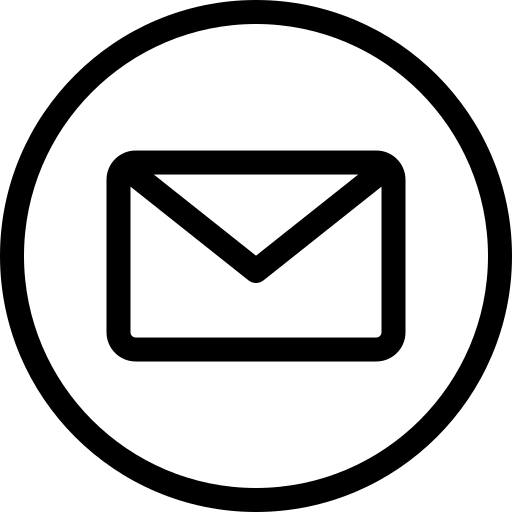
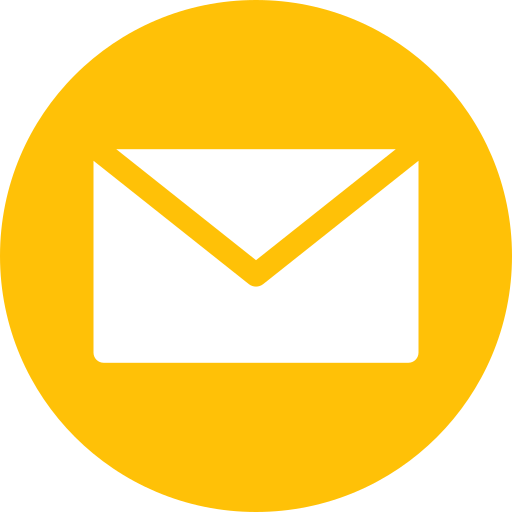
Added transition and tranform css property to self image and conatct

diff --git a/iportfolio.css b/iportfolio.css
@@ -2,6 +2,8 @@
   --bgcolor: #181828;
   --color: #7054c3;
   --fontstyle: "Poppins", serif;
+  --whitecolor: white;
+
 }
 
 * {
@@ -20,6 +22,8 @@
   border-bottom-right-radius: 80px;
   margin-top: 10vh;
   width: 33vw;
+  box-shadow: 3px 3px 3px var(--color), /* Bottom-right shadow */
+  -3px -3px 5px var(--color); /* Top-left highlight */
 }
 
 .me h1 {
@@ -34,6 +38,7 @@
   font-weight: bolder;
   font-style: italic;
   margin-left: 7vw;
+
 }
 
 .portfolio #self {
@@ -43,13 +48,24 @@
   height: 52vh;
   float: right;
   border-radius: 350px;
-  border: 5px solid var(--color);
+transition: 0.3s ease; 
 }
+
+#self:hover {
+  transition: 0.3s ease;
+  box-shadow: 
+  0 0 15px var(--whitecolor), /* Stronger outer glow */
+  0 0 30px var(--whitecolor), /* Stronger outer glow */
+  inset 0 0 15px rgba(255, 255, 255, 0.7), /* Stronger inner glow */
+  inset 0 0 30px rgba(255, 255, 255, 0.5); /* Stronger inner glow */
+  transform: translateY(-10px)
+}
+
 
 .about p {
   color: white;
   font-family: var(--fontstyle);
-  font-weight: 200;
+  font-weight: 300;
   font-style: normal;
   width: 35vw;
   height: 50vh;
@@ -60,12 +76,25 @@
 .contact {
   width: 31vw;
   height: 38vh;
-  border: 5px solid var(--color);
-  background-color: var(--color);
-  margin: 8vw;
-  display: flex;
-  flex-direction: column;
+  margin-left: 8vw;
+  margin-top: 15vh;
+  background: var(--color);
+  border-radius: 25px;
+  margin-bottom: 15px;
+  position: relative;
+  transition: 0.4s ease; /* Smooth transition */
 }
+
+/* Add a hover effect to enhance the 3D shadow */
+.contact:hover {
+  border-radius: 25px;
+  box-shadow: 
+    0 8px 20px var(--color), /* Deeper shadow for lifted effect */
+    0 0 15px var(--whitecolor), /* Stronger glow */
+    0 0 30px var(--whitecolor); /* Even stronger glow */
+  transform: translateY(-10px); /* Lift the card slightly */
+}
+
 
 .contact h1 {
   color: white;
@@ -73,16 +102,22 @@
   font-weight: 500;
   font-style: italic;
   font-size: 50px;
-  margin-left: 8px;
+  margin-left: 10px;
+  background-color: var(--color);
+  border-radius: 35px;
+  padding-bottom:0;
+  padding-top: 3px;
 }
 
 .contact img {
-  margin-top: 3vh;
   width: 3vw;
   height: 5vh;
   background-color: var(--color);
-  border-radius: 100%;
-  margin-left: 35px;
+  display: grid;
+  border-radius: 25px;
+  padding-left: 36px;
+  padding-top: 25px;
+  
 }
 
 .contact h3 {
@@ -93,25 +128,41 @@
   font-weight: 300;
   margin-top: -48px;
   margin-left: 110px;
+  border-radius: 25px;
+  background-color: var(--color);
 }
 
 .linkedin:hover {
-  background: var(--color);
+  background:#007ab9;
   width: 12vw;
+  font-weight:300;
   border-radius: 25px;
   text-align: center;
 }
 
+.github:hover{
+  background-color: white;
+  color: black;
+  font-weight:300;
+  text-align: center;
+  width: 13vw;
+  border-radius: 25px;
+}
+
 .insta:hover {
-  background: var(--color);
+  background: linear-gradient(90deg, #856337, #b59659,#e56969,#c1558b,#8a49a1);
   width: 8vw;
+  font-weight: 300;
   border-radius: 25px;
   text-align: center;
 }
 
 .email:hover {
-  background: var(--color);
+  background: #ffc107;
   text-align: center;
   width: 23vw;
   border-radius: 25px;
+  font-weight:500;
 }
+
+

diff --git a/iportfolio.html b/iportfolio.html
@@ -21,7 +21,6 @@
     />
   </head>
   <body>
-    
     <div class="portfolio">
       <img id="self" src="My Image.jpg" alt="ME" />
       <div class="me">
@@ -50,14 +49,22 @@
         <h1>Contact</h1>
 
         <a href="https://www.linkedin.com/in/ayushkanoje11/"
-          ><img id="linkedin" src="linkedin.png" alt="linkedin-img" />
-          <h3 class="linkedin">Ayush Kanoje</h3></a>
+          ><img src="linkedin.png" alt="linkedin-img" />
+          <h3 class="linkedin">Ayush Kanoje</h3></a
+        >
+
+        <a href="https://github.com/Ayush-Kanoje"
+          ><img src="github.png" alt="my githb" />
+          <h3 class="github">Ayush-Kanoje</h3></a
+        >
 
         <a href="https://www.instagram.com/ayuxh.k11/"
-          ><img id="insta" src="insta.png" alt="instagram-img" />
-          <h3 class="insta">Ayuxh.k11</h3></a>
-        <img id="email" src="email.png" alt="email-img" />
-        <h3 class="email">ayushkanoje056@gmail.com</h3
+          ><img src="instagram.png" alt="instagram-img" />
+          <h3 class="insta">Ayuxh.k11</h3></a
+        >
+
+        <img src="email.png" alt="email-img" />
+        <h3 class="email">ayushkanoje056@gmail.com</h3>
       </div>
     </div>
   </body>
